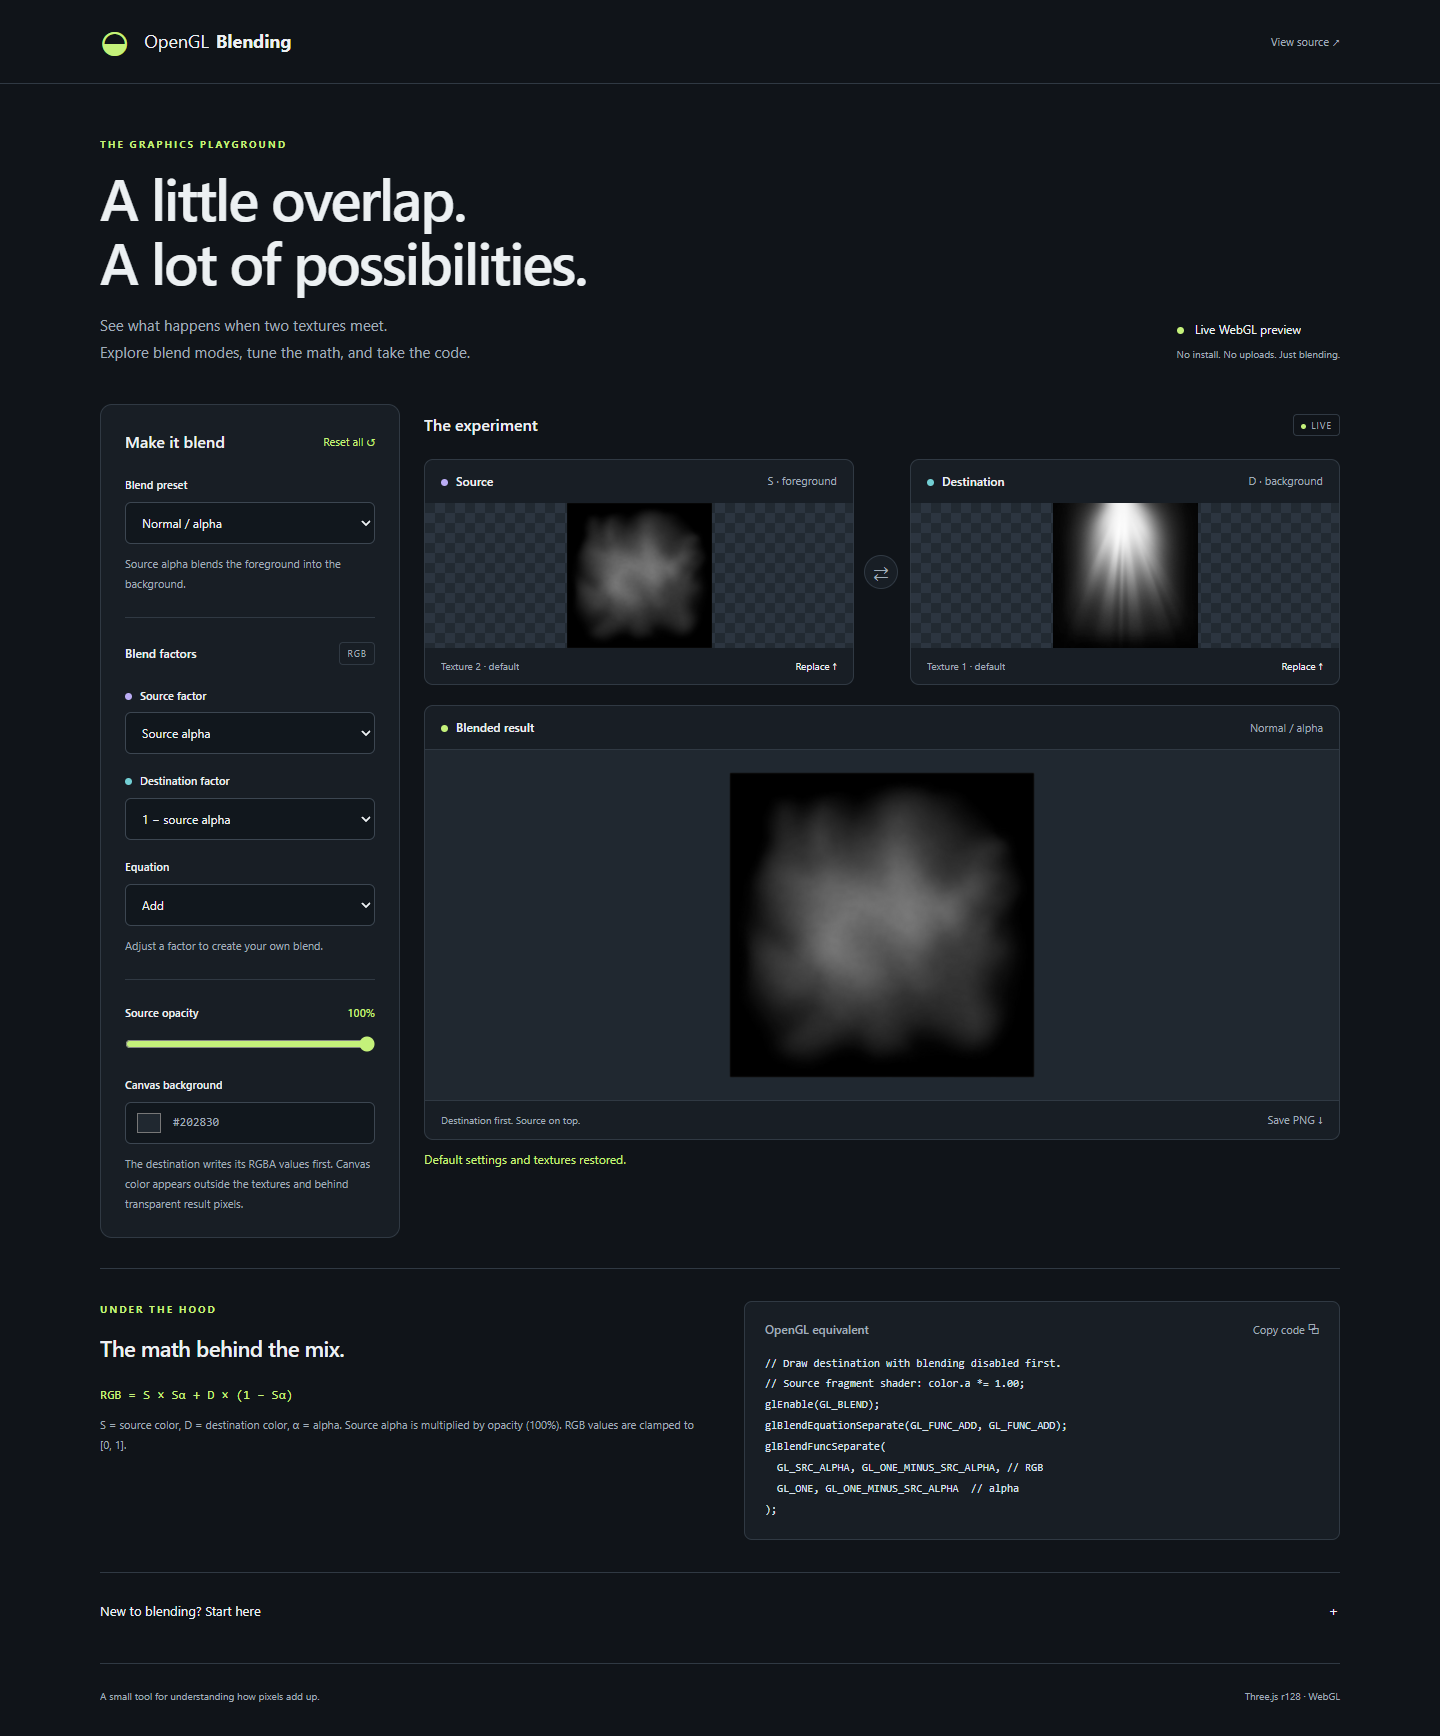
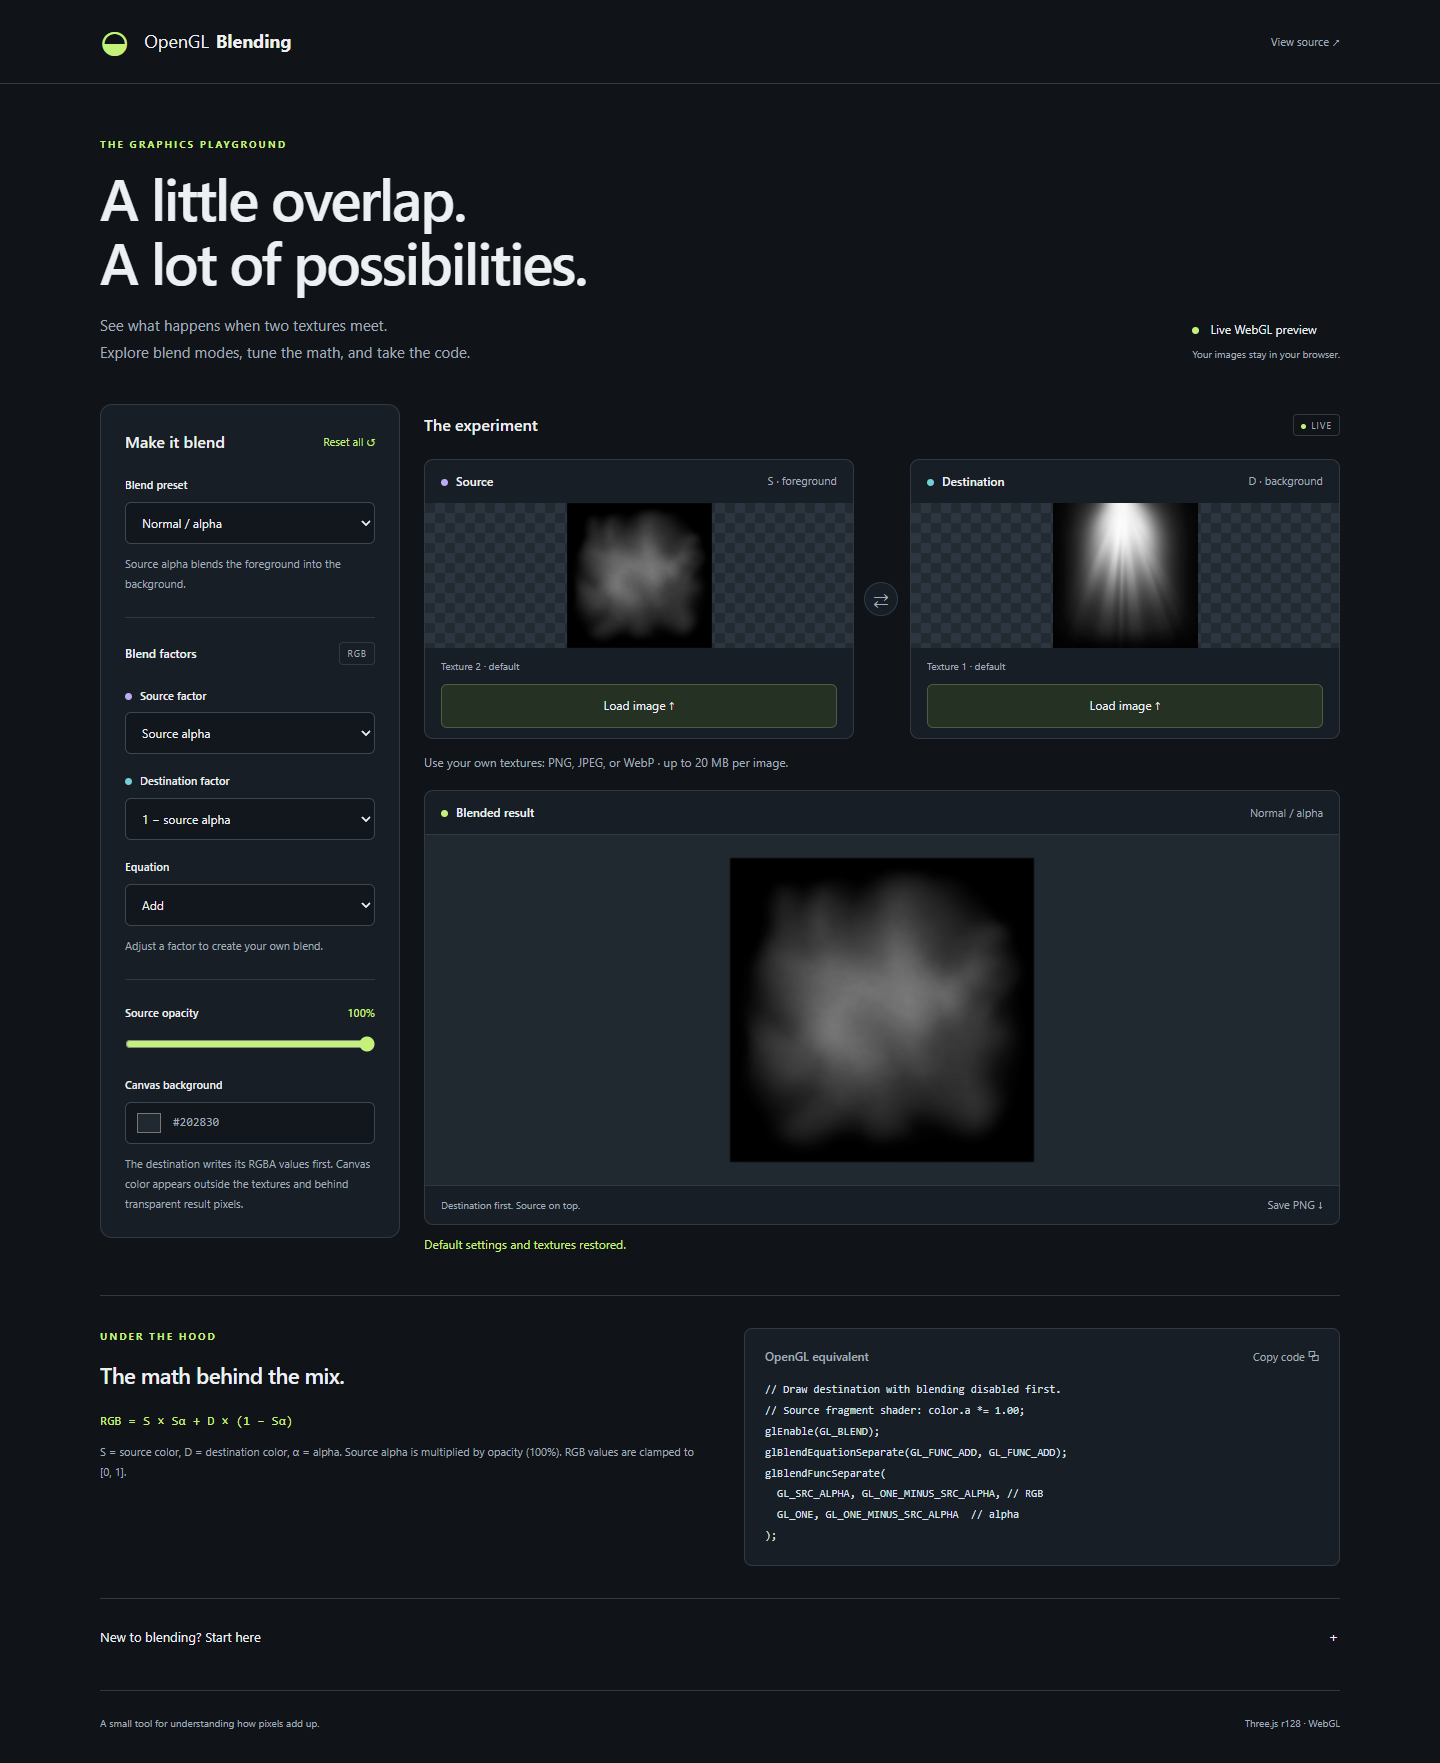
Make custom texture loading prominent and verify file pickers

diff --git a/index.html b/index.html
@@ -35,7 +35,7 @@
         </div>
         <div class="intro-note">
           <i></i> Live WebGL preview<small
-            >No install. No uploads. Just blending.</small
+            >Your images stay in your browser.</small
           >
         </div>
       </div>
@@ -118,11 +118,11 @@
               <div class="texture-footer">
                 <span id="source-name">Texture 2 · default</span
                 ><label class="upload"
-                  >Replace ↑<input
+                  >Load image ↑<input
                     id="source-file"
                     type="file"
                     accept="image/png,image/jpeg,image/webp"
-                    aria-label="Replace source texture"
+                    aria-label="Load custom source texture"
                 /></label>
               </div>
             </article>
@@ -150,15 +150,18 @@
               <div class="texture-footer">
                 <span id="destination-name">Texture 1 · default</span
                 ><label class="upload"
-                  >Replace ↑<input
+                  >Load image ↑<input
                     id="destination-file"
                     type="file"
                     accept="image/png,image/jpeg,image/webp"
-                    aria-label="Replace destination texture"
+                    aria-label="Load custom destination texture"
                 /></label>
               </div>
             </article>
           </div>
+          <p class="texture-help">
+            Use your own textures: PNG, JPEG, or WebP · up to 20 MB per image.
+          </p>
           <article class="result-card">
             <div class="card-heading">
               <h3><i></i>Blended result</h3>

diff --git a/tests/workbench.spec.js b/tests/workbench.spec.js
@@ -65,13 +65,21 @@ test("uploaded textures produce correct blend pixels and export", async ({
       }, color),
       "base64",
     );
-  await page.locator("#source-file").setInputFiles({
+  const sourcePicker = page.waitForEvent("filechooser");
+  await page.getByLabel("Load custom source texture").click();
+  await (
+    await sourcePicker
+  ).setFiles({
     name: "source.png",
     mimeType: "image/png",
     buffer: await png("rgba(200, 0, 0, 0.5)"),
   });
   await expect(page.locator("#source-name")).toHaveText("source.png");
-  await page.locator("#destination-file").setInputFiles({
+  const destinationPicker = page.waitForEvent("filechooser");
+  await page.getByLabel("Load custom destination texture").click();
+  await (
+    await destinationPicker
+  ).setFiles({
     name: "destination.png",
     mimeType: "image/png",
     buffer: await png("rgb(0, 100, 0)"),

diff --git a/styles.css b/styles.css
@@ -296,16 +296,34 @@ input[type="color"] {
   gap: 10px;
 }
 .texture-footer > span {
+  width: 100%;
   overflow: hidden;
   white-space: nowrap;
   text-overflow: ellipsis;
 }
 .upload {
+  display: flex;
+  align-items: center;
+  justify-content: center;
+  width: 100%;
+  min-height: 44px;
+  padding: 8px 12px;
+  border: 1px solid #4c5d42;
+  border-radius: 6px;
+  background: #253123;
   position: relative;
   flex-shrink: 0;
   cursor: pointer;
   color: var(--text);
-  font-size: 10px;
+  font-size: 12px;
+}
+.texture-footer {
+  flex-wrap: wrap;
+}
+.texture-help {
+  color: var(--muted);
+  font-size: 12px;
+  margin: -6px 0 18px;
 }
 .upload:hover {
   color: var(--accent);
@@ -314,6 +332,7 @@ input[type="color"] {
   position: absolute;
   inset: 0;
   width: 100%;
+  height: 100%;
   opacity: 0;
   cursor: pointer;
 }

diff --git a/README.md b/README.md
@@ -21,7 +21,7 @@ Images are decoded locally and never uploaded. The app has no backend, tracking,
 ## Try it
 
 1. Open the playground and choose **Additive** to combine the bundled light textures. The default **Normal / alpha** preset is most useful with a transparent source image.
-2. Use **Replace** below either input preview to load your own image (up to 20 MB). Transparent PNGs make alpha behavior easier to see.
+2. Use **Load image ↑** below either input preview to load your own image (up to 20 MB). Transparent PNGs make alpha behavior easier to see.
 3. Change the source opacity or click the arrow between the previews to swap the drawing order.
 4. Adjust a factor or equation to enter **Custom** mode. Minimum and maximum ignore factors, so those controls are disabled while either equation is active.
 5. Copy the OpenGL example or use **Save PNG** to export the result at the current preview resolution. **Reset all** restores the textures and settings.
